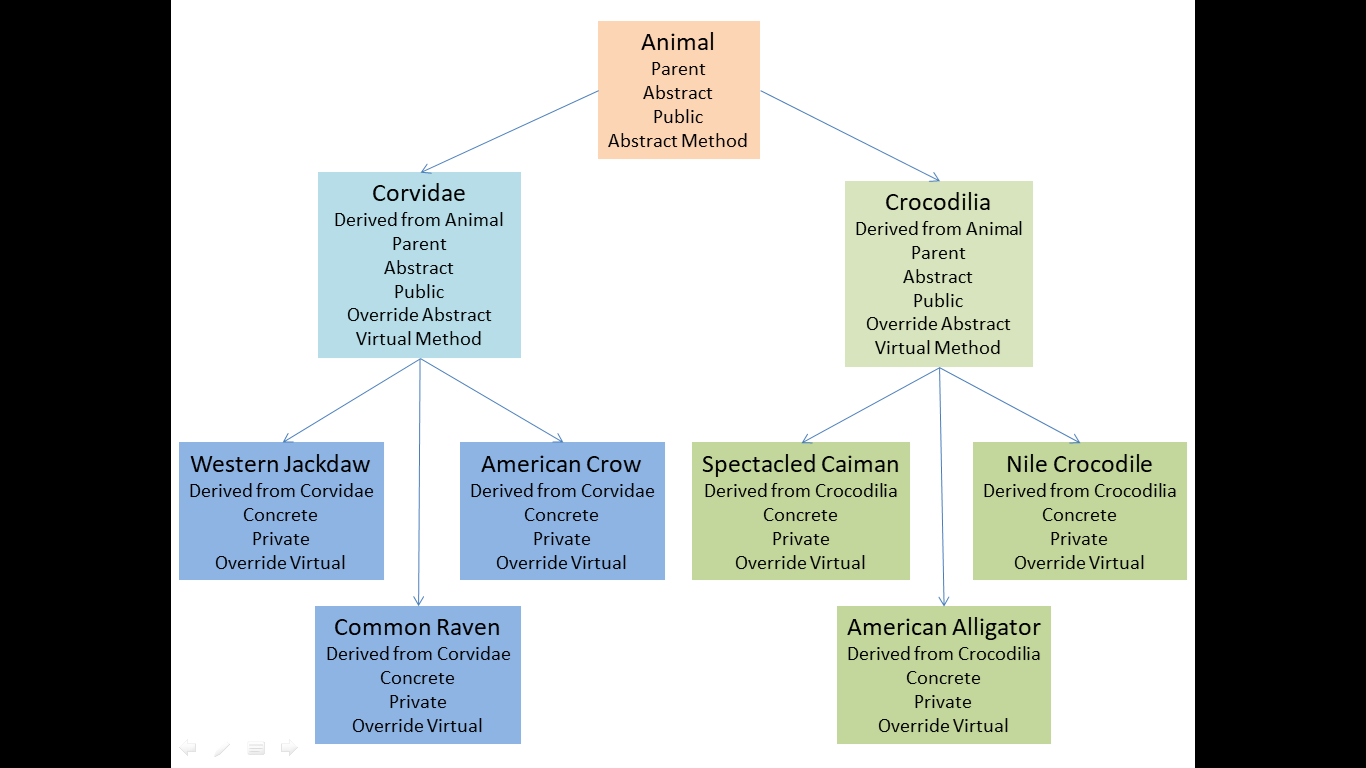
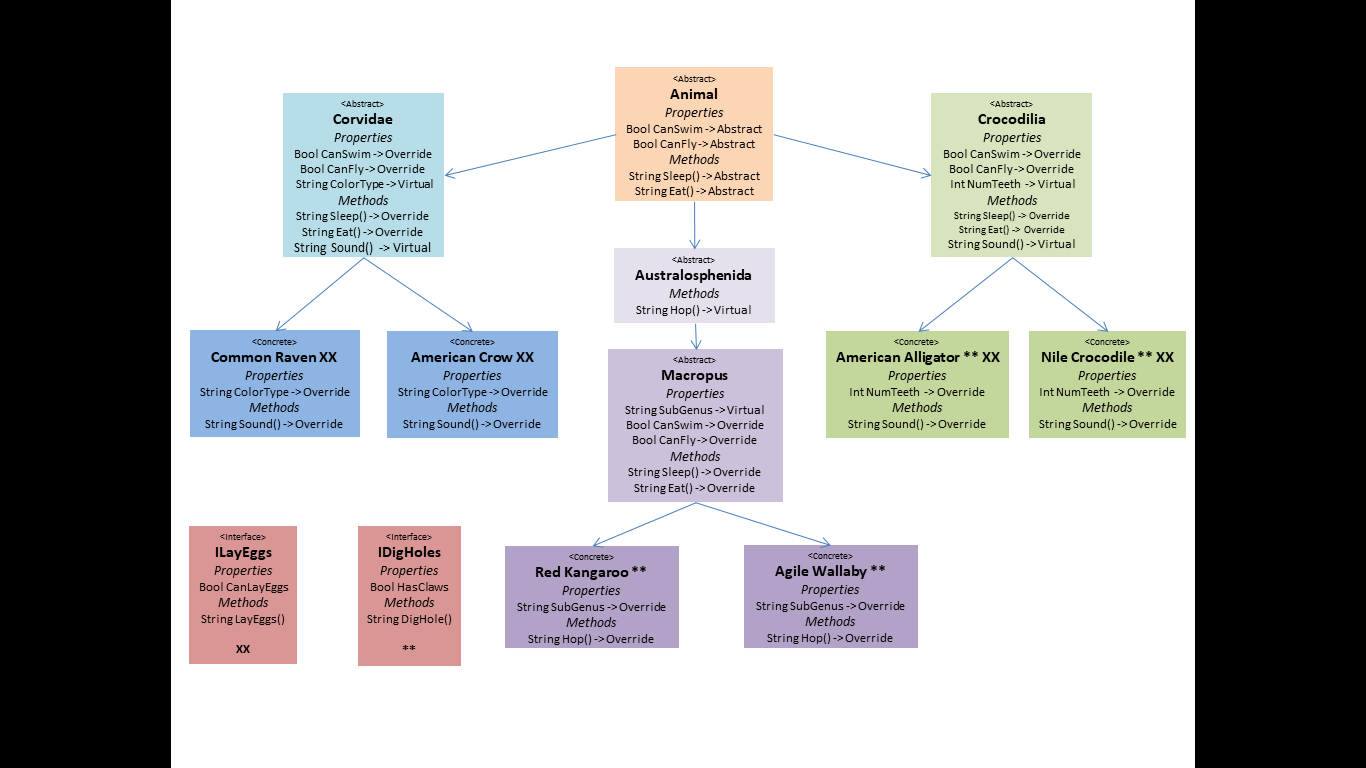
refactored classes for more inheritance, added updated diagram, added new tests for new classes

diff --git a/Zoo/Program.cs b/Zoo/Program.cs
@@ -15,10 +15,7 @@ namespace Zoo
             Crocodile.numTeeth = 60;
             Crocodile.canFly = false;
             Crocodile.canSwim = true;
-            SpectacledCaiman Caiman = new SpectacledCaiman();
-            Caiman.numTeeth = 40;
-            Caiman.canFly = false;
-            Crocodile.canSwim = true;
+            
 
             AmericanCrow Crow = new AmericanCrow();
             Crow.colorType = "black";
@@ -28,10 +25,7 @@ namespace Zoo
             Raven.colorType = "slightly darker black";
             Raven.canFly = true;
             Raven.canSwim = false;
-            WesternJackdaw Jackdaw = new WesternJackdaw();
-            Jackdaw.colorType = "gray";
-            Jackdaw.canFly = true;
-            Jackdaw.canSwim = false;
+           
         }
 
         /// <summary>
@@ -58,10 +52,10 @@ namespace Zoo
         /// Method created for test
         /// </summary>
         /// <returns>Returns a string</returns>
-        public static string CaimanEat()
+        public static string KangarooEat()
         {
-            SpectacledCaiman Caiman = new SpectacledCaiman();
-            return Caiman.Eat();
+            RedKangaroo Kangaroo = new RedKangaroo();
+            return Kangaroo.Eat();
         }
 
         /// <summary>
@@ -88,16 +82,6 @@ namespace Zoo
         /// Method created for test
         /// </summary>
         /// <returns>Returns a string</returns>
-        public static string JackdawEat()
-        {
-            WesternJackdaw Jackdaw = new WesternJackdaw();
-            return Jackdaw.Eat();
-        }
-
-        /// <summary>
-        /// Method created for test
-        /// </summary>
-        /// <returns>Returns a string</returns>
         public static string AlligatorSleep()
         {
             AmericanAlligator Alligator = new AmericanAlligator();
@@ -118,10 +102,10 @@ namespace Zoo
         /// Method created for test
         /// </summary>
         /// <returns>Returns a string</returns>
-        public static string CaimanSleep()
+        public static string KangarooSleep()
         {
-            SpectacledCaiman Caiman = new SpectacledCaiman();
-            return Caiman.Sleep();
+            RedKangaroo Kangaroo = new RedKangaroo();
+            return Kangaroo.Sleep();
         }
 
         /// <summary>
@@ -148,10 +132,20 @@ namespace Zoo
         /// Method created for test
         /// </summary>
         /// <returns>Returns a string</returns>
-        public static string JackdawSleep()
+        public static string KangarooHop()
         {
-            WesternJackdaw Jackdaw = new WesternJackdaw();
-            return Jackdaw.Sleep();
+            RedKangaroo Kangaroo = new RedKangaroo();
+            return Kangaroo.Hop();
+        }
+
+        /// <summary>
+        /// Method created for test
+        /// </summary>
+        /// <returns>Returns a string</returns>
+        public static string WallabyHop()
+        {
+            AgileWallaby Wallaby = new AgileWallaby();
+            return Wallaby.Hop();
         }
     }
 }

diff --git a/ZooTests/UnitTest1.cs b/ZooTests/UnitTest1.cs
@@ -20,9 +20,9 @@ namespace ZooTests
         }
 
         [Fact]
-        public void CaimanCanEat()
+        public void KangarooCanEat()
         {
-            Assert.Equal("nom nom nom", CaimanEat());
+            Assert.Equal("nom nom nom", KangarooEat());
         }
 
         [Fact]
@@ -38,12 +38,6 @@ namespace ZooTests
         }
 
         [Fact]
-        public void JackdawCanEat()
-        {
-            Assert.Equal("nom nom nom", JackdawEat());
-        }
-
-        [Fact]
         public void AlligatorCanSleep()
         {
             Assert.Equal("zzz", AlligatorSleep());
@@ -56,9 +50,9 @@ namespace ZooTests
         }
 
         [Fact]
-        public void CaimanCanSleep()
+        public void KangarooCanSleep()
         {
-            Assert.Equal("zzz", CaimanSleep());
+            Assert.Equal("zzz", KangarooSleep());
         }
 
         [Fact]
@@ -74,9 +68,15 @@ namespace ZooTests
         }
 
         [Fact]
-        public void JackdawCanSleep()
+        public void KangarooCanHop()
         {
-            Assert.Equal("zzz", JackdawSleep());
+            Assert.Equal("Hop Hop Hop", KangarooHop());
+        }
+
+        [Fact]
+        public void WallabyCanHop()
+        {
+            Assert.Equal("Hop Hop Hop", WallabyHop());
         }
     }
 }

diff --git a/Zoo/Classes/Macropus.cs b/Zoo/Classes/Macropus.cs
@@ -4,11 +4,11 @@ using System.Text;
 
 namespace Zoo.Classes
 {
-    public abstract class Corvidae : Animal
+    public abstract class Macropus : Australosphenida
     {
+        public virtual string SubGenus { get; set; }
         public override bool canSwim { get; set; }
         public override bool canFly { get; set; }
-        public virtual string colorType { get; set; }
 
         /// <summary>
         /// Method overrides sleep method from Animal class
@@ -26,15 +26,6 @@ namespace Zoo.Classes
         public override string Eat()
         {
             return "nom nom nom";
-        }
-
-        /// <summary>
-        /// Virtual method of the sound the animal makes
-        /// </summary>
-        /// <returns>Returns a string</returns>
-        public virtual string Sound()
-        {
-            return "caw caw";
         }
     }
 }

diff --git a/Zoo/Classes/Crocodilia.cs b/Zoo/Classes/Crocodilia.cs
@@ -36,14 +36,5 @@ namespace Zoo.Classes
         {
             return "reptile noises";
         }
-
-        /// <summary>
-        /// Virtual method of the time the animal can be underwater
-        /// </summary>
-        /// <returns>Returns an integer</returns>
-        public virtual int SubmergeTime()
-        {
-            return 20;
-        }
     }
 }

diff --git a/Zoo/Classes/AmericanAlligator.cs b/Zoo/Classes/AmericanAlligator.cs
@@ -16,14 +16,5 @@ namespace Zoo.Classes
         {
             return "Alligator noises";
         }
-
-        /// <summary>
-        /// Time an alligator can be submerged
-        /// </summary>
-        /// <returns>Returns an integer</returns>
-        public override int SubmergeTime()
-        {
-            return 35;
-        }
     }
 }

diff --git a/Zoo/Classes/NileCrocodile.cs b/Zoo/Classes/NileCrocodile.cs
@@ -16,14 +16,5 @@ namespace Zoo.Classes
         {
             return "Crocodile noises";
         }
-
-        /// <summary>
-        /// Time a crocodile can be submerged
-        /// </summary>
-        /// <returns>Returns an integer</returns>
-        public override int SubmergeTime()
-        {
-            return 45;
-        }
     }
 }

diff --git a/Zoo/Classes/CommonRaven.cs b/Zoo/Classes/CommonRaven.cs
@@ -16,14 +16,5 @@ namespace Zoo.Classes
         {
             return "Raven caw caw";
         }
-
-        /// <summary>
-        /// Range a raven can fly
-        /// </summary>
-        /// <returns>Returns an integer</returns>
-        public override int FlyingRange()
-        {
-            return 45;
-        }
     }
 }

diff --git a/Zoo/Classes/AmericanCrow.cs b/Zoo/Classes/AmericanCrow.cs
@@ -16,14 +16,5 @@ namespace Zoo.Classes
         {
             return "Crow caw caw";
         }
-
-        /// <summary>
-        /// Range a crow can fly
-        /// </summary>
-        /// <returns>Returns an integer</returns>
-        public override int FlyingRange()
-        {
-            return 35;
-        }
     }
 }

diff --git a/Zoo/Classes/AgileWallaby.cs b/Zoo/Classes/AgileWallaby.cs
@@ -1,0 +1,16 @@
+using System;
+using System.Collections.Generic;
+using System.Text;
+
+namespace Zoo.Classes
+{
+    class AgileWallaby : Macropus
+    {
+        public override string SubGenus { get; set; }
+
+        public override string Hop()
+        {
+            return "Hop Hop Hop";
+        }
+    }
+}

diff --git a/Zoo/Classes/RedKangaroo.cs b/Zoo/Classes/RedKangaroo.cs
@@ -1,0 +1,16 @@
+using System;
+using System.Collections.Generic;
+using System.Text;
+
+namespace Zoo.Classes
+{
+    class RedKangaroo : Macropus
+    {
+        public override string SubGenus { get; set; }
+
+        public override string Hop()
+        {
+            return "Hop Hop Hop";
+        }
+    }
+}

diff --git a/Zoo/Classes/Australosphenida.cs b/Zoo/Classes/Australosphenida.cs
@@ -1,0 +1,14 @@
+using System;
+using System.Collections.Generic;
+using System.Text;
+
+namespace Zoo.Classes
+{
+    public abstract class Australosphenida : Animal
+    {
+        public virtual string Hop()
+        {
+            return "Hop Hop Hop";
+        }
+    }
+}
